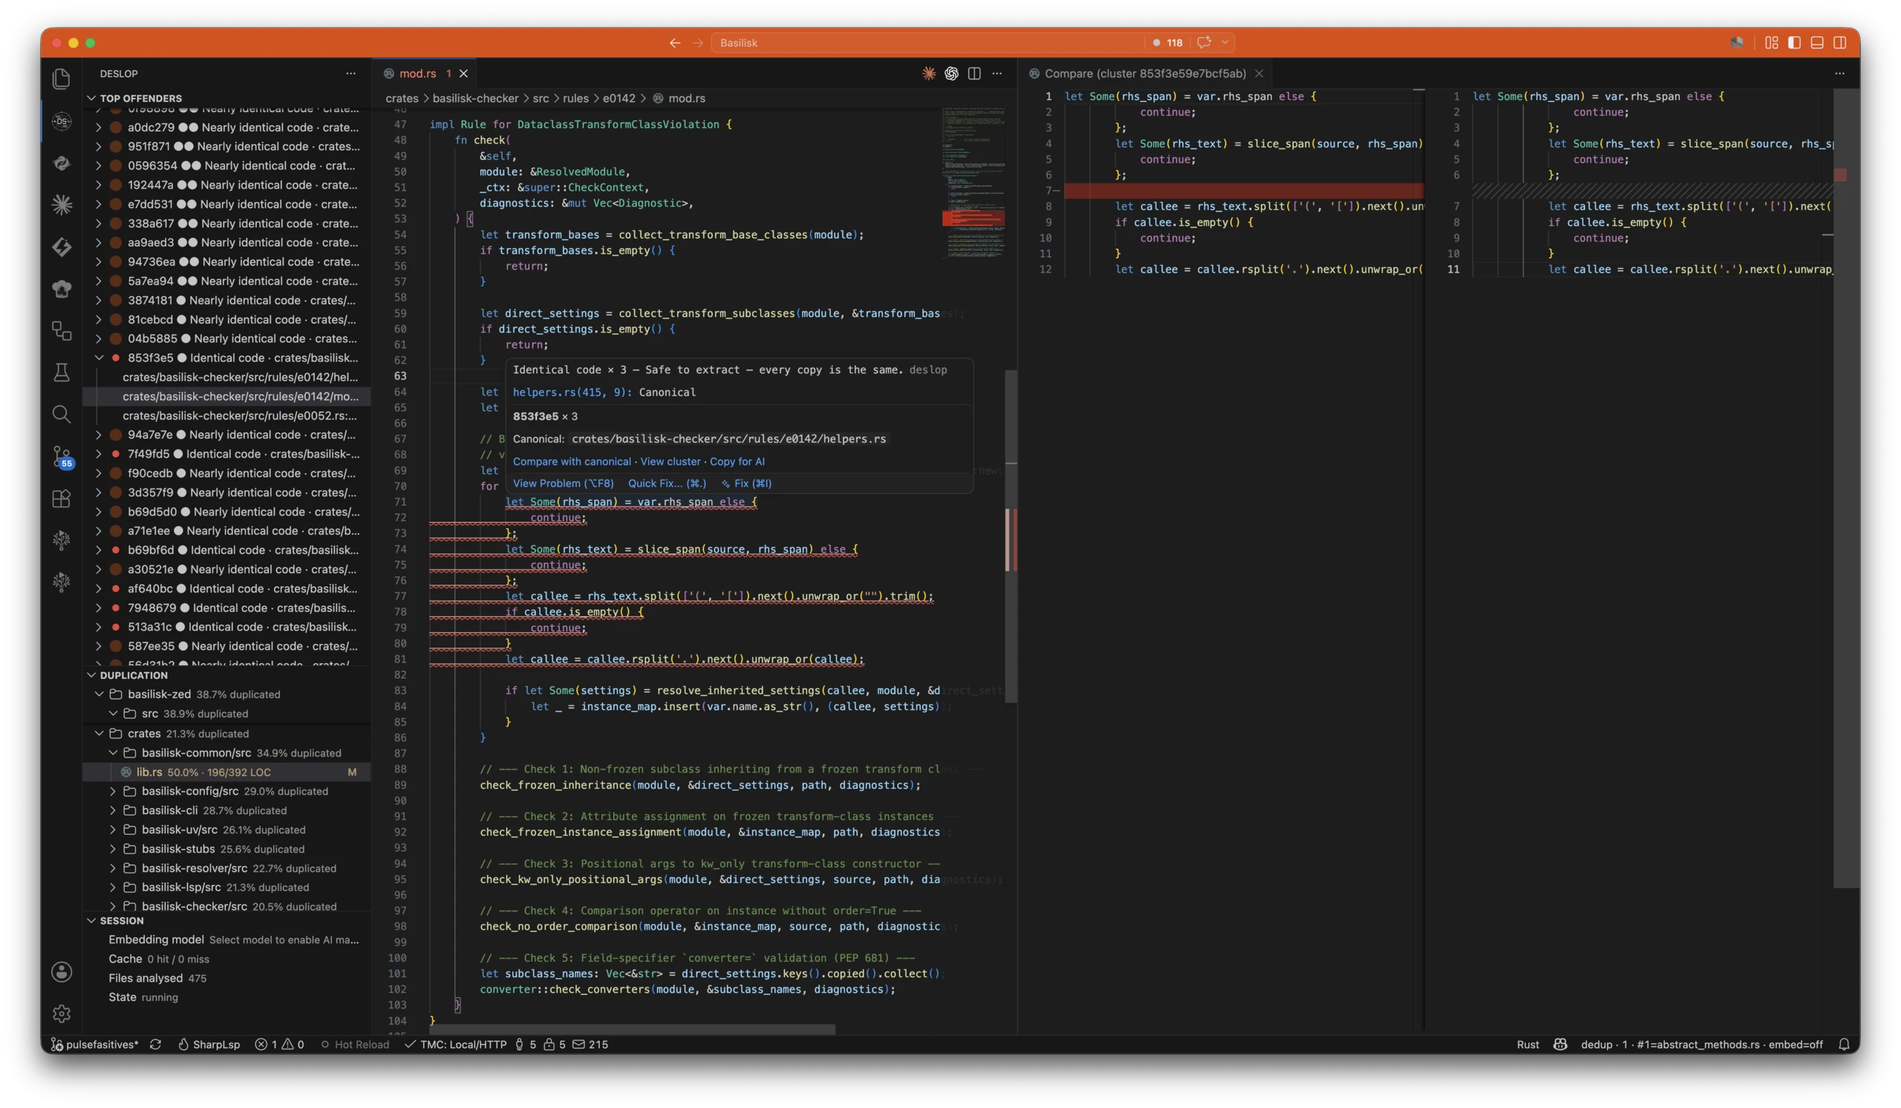
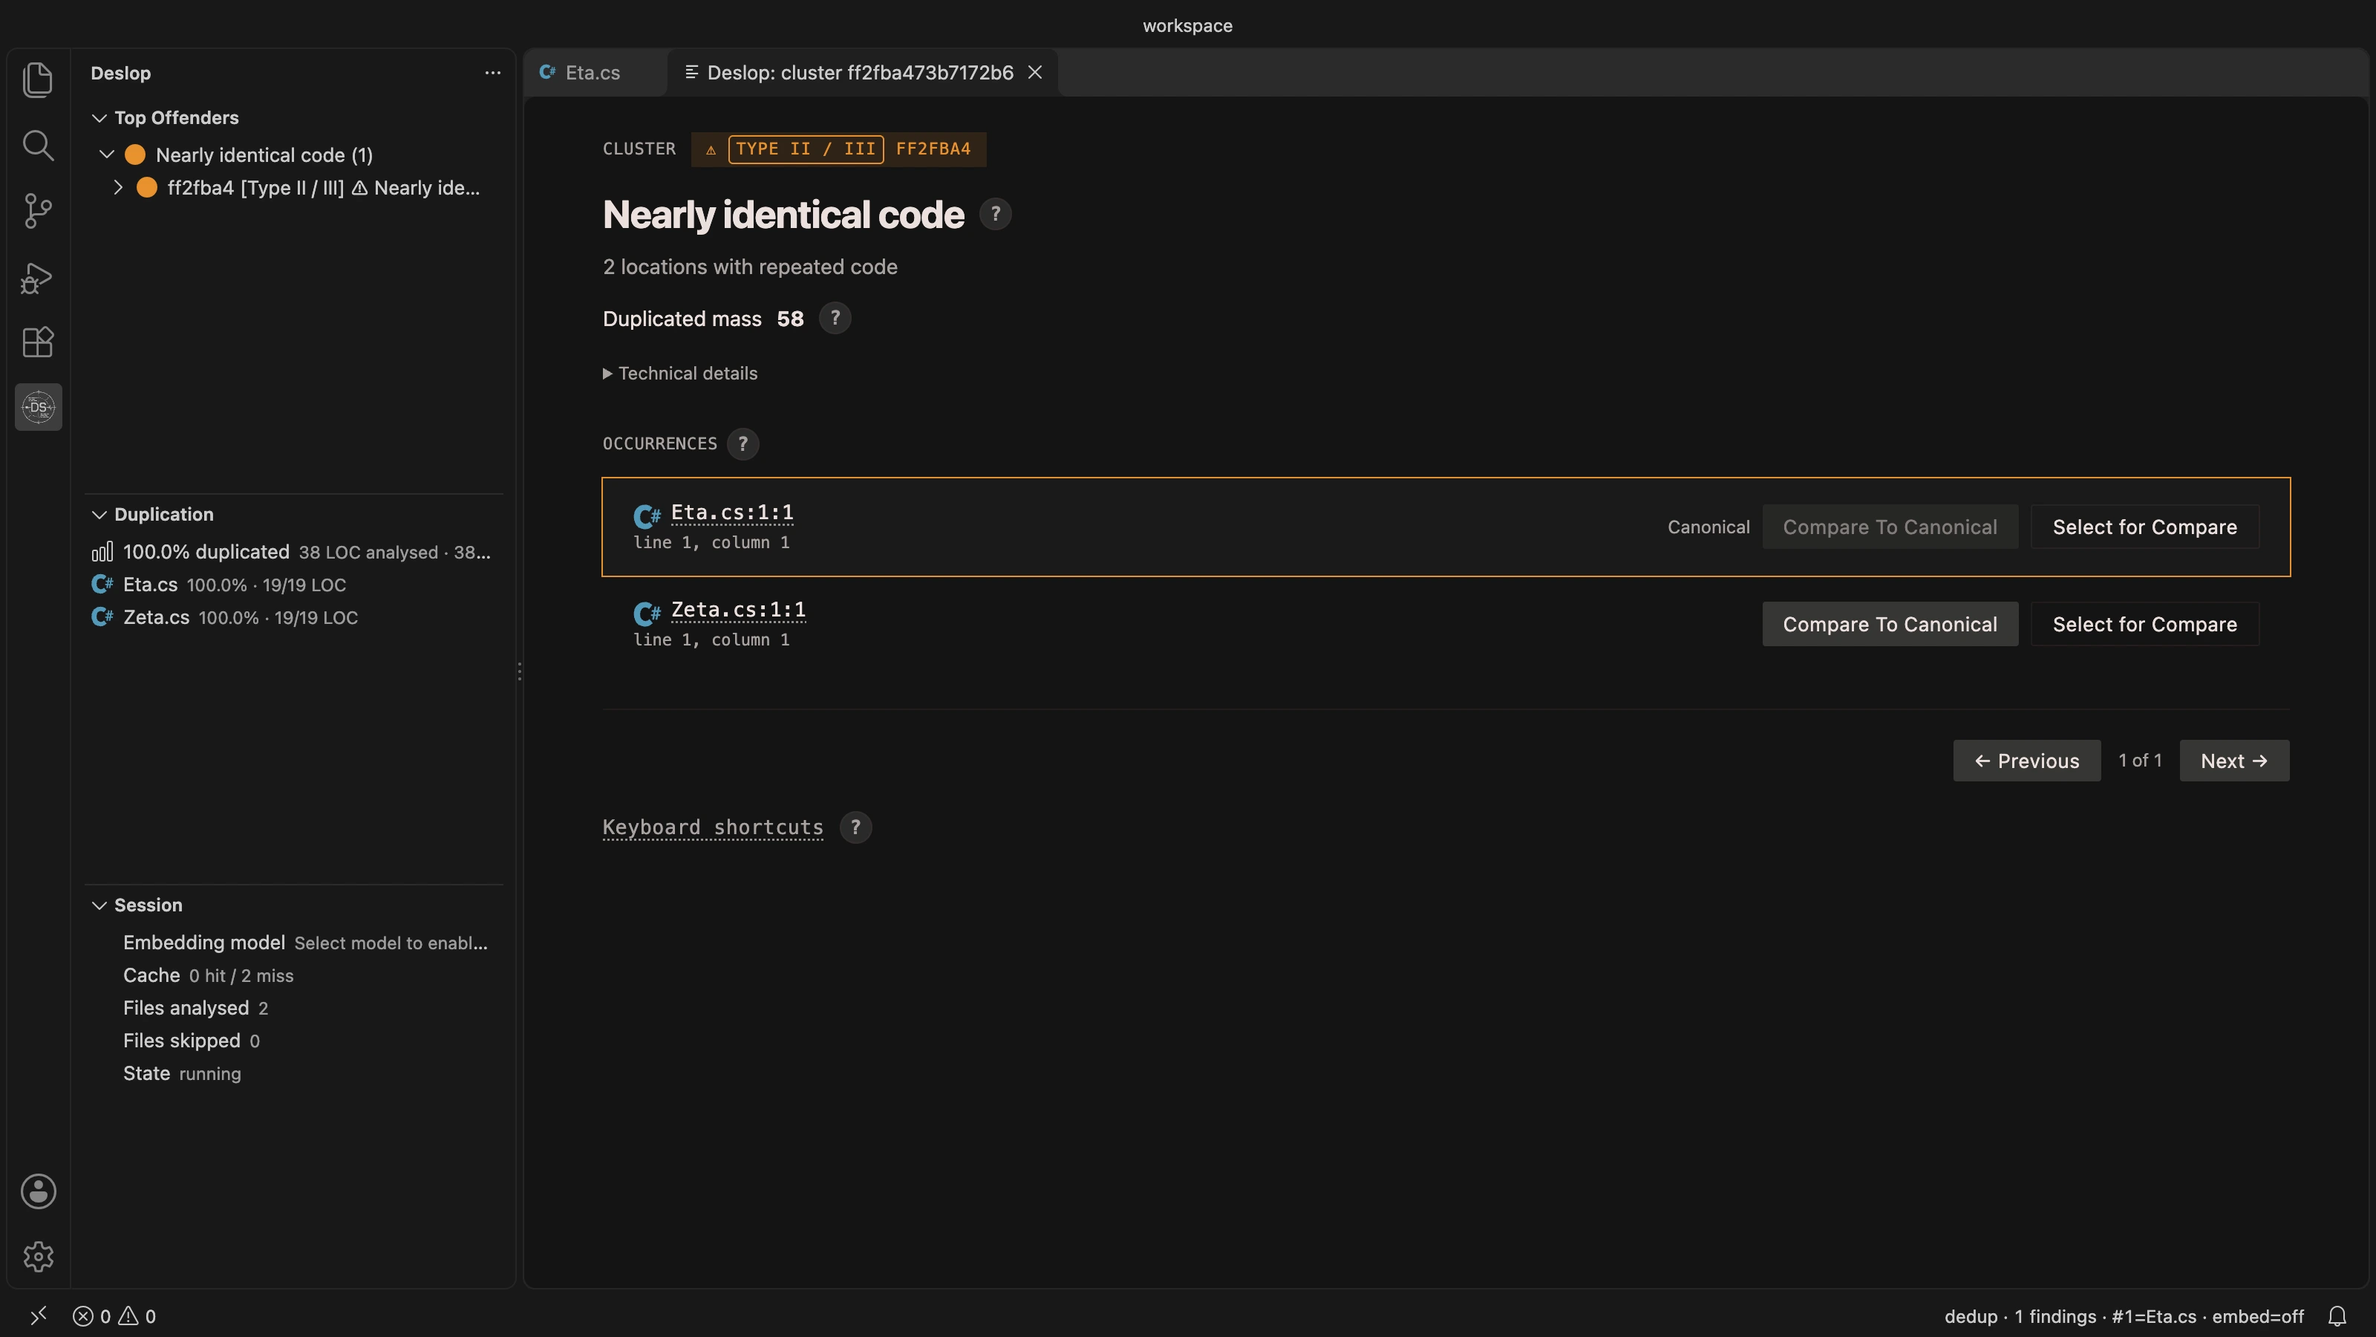
Publish narrated product demo, Marketplace GIF and distinct blog artwork

diff --git a/site/tests/website-audit.spec.js b/site/tests/website-audit.spec.js
@@ -1,4 +1,4 @@
-import { readdir } from "node:fs/promises";
+import { readdir, readFile } from "node:fs/promises";
 import { extname } from "node:path";
 import { expect, test } from "@playwright/test";
 import { expectAssetType } from "./helpers/assets.js";
@@ -269,12 +269,45 @@ test("internal page links and fragments resolve", async ({ page }) => {
   }
 });
 
-// [SITE-ASSET-TYPE] Motion is built in the page, so no encoded video or audio file is ever published.
+// [SITE-DEMO-VIDEO] The narrated product demo is the only published encoded media.
 const SITE_SOURCE = new URL("../src/", import.meta.url);
 const ENCODED_MEDIA = new Set([".aac", ".avi", ".flac", ".m4a", ".m4v", ".mkv", ".mov", ".mp3", ".mp4", ".ogg", ".wav", ".webm"]);
-const NO_FILES = [];
+const DEMO_MEDIA = ["assets/video/deslop-demo.mp4"];
 
-test("the site source publishes no encoded video or audio", async () => {
+test("the site publishes only the requested product demo", async () => {
   const files = await readdir(SITE_SOURCE, { recursive: true });
-  expect(files.filter((file) => ENCODED_MEDIA.has(extname(file).toLowerCase()))).toEqual(NO_FILES);
+  expect(files.filter((file) => ENCODED_MEDIA.has(extname(file).toLowerCase()))).toEqual(DEMO_MEDIA);
+});
+
+// [SITE-DEMO-VIDEO] Native controls keep narration opt-in and captions accessible.
+test("homepage demo plays on demand with captions on desktop and mobile", async ({ page }) => {
+  for (const route of ["/", "/zh/"]) {
+    for (const width of [1440, 390]) {
+      await page.setViewportSize({ width, height: 900 });
+      await page.goto(route);
+      await page.locator('.hero__cta a[href="#demo"]').click();
+      const video = page.locator('.showcase video');
+      await expect(video).toBeVisible();
+      await expect(video).toHaveAttribute('controls', '');
+      await expect(video).toHaveAttribute('preload', 'none');
+      await expect(video).not.toHaveAttribute('autoplay');
+      await expect(video.locator('track')).toHaveAttribute('srclang', 'en');
+      await video.evaluate(element => { element.muted = true; return element.play(); });
+      await expect.poll(() => video.evaluate(element => element.currentTime)).toBeGreaterThan(0);
+      expect(await video.evaluate(element => element.videoWidth)).toBe(1600);
+      expect(await video.evaluate(element => element.videoHeight)).toBe(1000);
+      await video.evaluate(element => element.pause());
+      expect(await page.evaluate(() => document.documentElement.scrollWidth <= innerWidth)).toBe(true);
+    }
+  }
+});
+
+test("English articles have distinct header artwork", async ({ page }) => {
+  await page.goto('/blog/');
+  const sources = await page.locator('main img').evaluateAll(images => images.map(image => image.getAttribute('src')).filter(src => src?.includes('/blog/')));
+  expect(sources.length).toBeGreaterThan(5);
+  expect(new Set(sources).size).toBe(sources.length);
+  const contents = await Promise.all(sources.map(src => readFile(new URL(`../src${src}`, import.meta.url))));
+  const unique = new Set(contents.map(bytes => bytes.toString('base64')));
+  expect(unique.size, 'different filenames must not hide duplicate images').toBe(sources.length);
 });

diff --git a/site/src/assets/css/home.css b/site/src/assets/css/home.css
@@ -135,8 +135,9 @@
 }
 .btn-primary:hover { color: var(--on-primary-container); }
 
-/* ─────────── Product showcase (extension screenshot + panel legend) ─────────── */
+/* ─────────── Product demo and workflow ─────────── */
 .showcase {
+  scroll-margin-top: calc(var(--header-height) + var(--space-6));
   padding: var(--space-8) var(--space-6) var(--space-24);
   max-width: var(--max-width);
   margin-inline: auto;
@@ -166,7 +167,7 @@
   overflow: hidden;
   box-shadow: 0 20px 40px rgba(14, 14, 14, 0.6);
 }
-.showcase__figure img { display: block; width: 100%; height: auto; }
+.showcase__figure img, .showcase__figure video { display: block; width: 100%; height: auto; }
 .showcase__legend {
   display: grid;
   grid-template-columns: 1fr;

diff --git a/clients/vscode/README.md b/clients/vscode/README.md
@@ -4,15 +4,15 @@
 
 Clone detectors such as PMD CPD, jscpd, SonarLint, and the JetBrains inspections report duplication on CI, on save, or in a panel you open on purpose. Deslop surfaces duplicates **inline, next to your cursor, as you type**, and exposes the same live analysis to the agent over MCP so it can check *before* it copy-pastes.
 
-![The Deslop VS Code extension on a live workspace: a worst-first Top Offenders tree and a per-directory Duplication breakdown in the sidebar, a live clone warning in the editor naming the canonical copy with Compare / View cluster / Copy for AI actions, and a side-by-side Compare diff against the canonical occurrence.](https://deslop.live/assets/img/screenshot.webp)
+[![Deslop demo: inspect a duplicate cluster and compare both copies in VS Code.](https://deslop.live/assets/img/deslop-demo.gif)](https://deslop.live/#demo)
 
-**One live report, three surfaces.** The screenshot above shows the extension rendering the running analysis inline:
+[Watch the narrated demo with captions](https://deslop.live/#demo).
 
-- **Sidebar (left)** — **Top Offenders** ranks every clone cluster worst-first (id, severity, plain-English bucket, expandable to occurrences); **Duplication** breaks the repo down folder-by-folder with a duplicated-percentage on every node; **Session** shows the live server and the embedding-model picker.
-- **Editor (centre)** — the LSP underlines the duplicate as you type, names the **canonical** copy used as the anchor, and offers **Compare with canonical**, **View cluster**, and **Copy for AI** right on the finding.
-- **Compare diff (right)** — VS Code's native side-by-side editor lines this occurrence up against the canonical one so you can confirm before extracting.
+![Deslop showing a real duplicate-code cluster, its two locations and canonical comparison actions.](https://deslop.live/assets/img/screenshot.webp)
 
-Every panel refreshes as you type, and the same live report backs the MCP tools your agent calls. Full panel-by-panel walkthrough: [VS Code Cluster Panel](https://deslop.live/docs/vscode-cluster-panel/).
+**Find, inspect, compare.** Top Offenders lists the findings beside your code. Open a cluster to see its locations, then compare an occurrence with its canonical copy in VS Code's native diff editor before refactoring. The demonstration uses a small two-file C# fixture analysed by the packaged extension.
+
+Every panel reads the same live analysis. Full walkthrough: [VS Code Cluster Panel](https://deslop.live/docs/vscode-cluster-panel/).
 
 ## Features
 

diff --git a/site/src/docs/vscode-cluster-panel.md b/site/src/docs/vscode-cluster-panel.md
@@ -22,6 +22,11 @@ The panel shows a group of code occurrences and lets you inspect the actual copi
 
 Canonical means the reference used for navigation, not the best implementation. The diff title identifies both ranges and the engine's verdict for that pair, including exact-byte or indentation-only matches. Two ranges can be in the same file.
 
+<figure>
+  <a href="/assets/img/deslop-compare.webp"><img src="/assets/img/deslop-compare.webp" alt="VS Code comparing the two C# copies side by side, with renamed namespaces and classes highlighted." width="3200" height="1800" loading="lazy" decoding="async"></a>
+  <figcaption>The native diff editor compares the canonical copy with another occurrence in the demo workspace.</figcaption>
+</figure>
+
 ## Read the finding
 
 The **clone kind** distinguishes Identical code, Nearly identical code, Similar code, optional Same behavior, different code, and informational Same shape, different content. [How It Works](/docs/how-it-works/#read-the-categories) explains the Type I–IV mapping.
@@ -37,6 +42,11 @@ Structural, token, content and embedding measurements describe a pair. They appe
 **Top Offenders** groups findings by **Clone Category**, **Folder**, **Language**, **File** or **No Grouping**. Clones stay in descending mass order. One grouping menu replaces separate language and sorting controls.
 
 **Duplication** shows workspace, folder and file percentages from the same engine calculation used in reports. **Session** shows analysis state and embedding settings. The views refresh with the live analysis.
+
+<figure>
+  <a href="/assets/img/deslop-source.webp"><img src="/assets/img/deslop-source.webp" alt="Deslop findings and duplication breakdown beside the C# source file in VS Code." width="3200" height="1800" loading="lazy" decoding="async"></a>
+  <figcaption>The same two-file fixture, with live findings beside its source.</figcaption>
+</figure>
 
 Help buttons open formatted explanations on hover or keyboard focus. **Escape** dismisses help; technical details stay collapsed until needed.
 

diff --git a/site/src/docs/index.md b/site/src/docs/index.md
@@ -28,12 +28,8 @@ Then open a supported source file (`.cs`, `.rs`, `.py`, `.dart`, `.js`, `.mjs`, 
 The extension bundles native binaries for `darwin-arm64`, `darwin-x64`, `linux-x64`, `linux-arm64`, and `win32-x64` — the right one is selected for you automatically.
 
 <figure>
-  <a href="/assets/img/screenshot.webp">
-    <img src="/assets/img/screenshot.webp"
-         alt="The Deslop VS Code extension on a live workspace: a worst-first Top Offenders tree and a per-folder Duplication breakdown in the sidebar, a live clone warning at the cursor, and a Compare diff against the canonical occurrence."
-         width="2560" height="1492" loading="lazy" decoding="async">
-  </a>
-  <figcaption>The extension on a live workspace — worst-first clusters and a per-folder duplication breakdown in the sidebar, a live clone warning at the cursor, and a Compare diff against the canonical copy. <a href="/docs/vscode-cluster-panel/">Full panel-by-panel walkthrough →</a></figcaption>
+  <a href="/assets/img/screenshot.webp"><img src="/assets/img/screenshot.webp" alt="Deslop analysing a two-file C# demo: a duplicate cluster with both locations and canonical comparison actions." width="3200" height="1800" loading="lazy" decoding="async"></a>
+  <figcaption>A real two-file demo analysed by the packaged extension. Open a finding, inspect its locations, then compare the copies.</figcaption>
 </figure>
 
 > **Offline or air-gapped?** Grab the `.vsix` from the [Releases page](/releases/) or the [latest GitHub release](https://github.com/Nimblesite/Deslop/releases/latest), then install it via **Extensions panel → `…` menu → Install from VSIX…**.

diff --git a/site/src/zh/docs/index.md b/site/src/zh/docs/index.md
@@ -29,12 +29,8 @@ lang: zh
 该扩展捆绑了面向 `darwin-arm64`、`darwin-x64`、`linux-x64`、`linux-arm64` 和 `win32-x64` 的原生二进制文件 —— 系统会自动为你选择正确的那一个。
 
 <figure>
-  <a href="/assets/img/screenshot.webp">
-    <img src="/assets/img/screenshot.webp"
-         alt="Deslop VS Code 扩展正在分析实时工作区：侧边栏中以最严重优先排序的 Top Offenders 树与按目录划分的 Duplication 占比，编辑器中光标处的实时克隆警告，以及与规范出现位置的 Compare 差异对比。"
-         width="2560" height="1492" loading="lazy" decoding="async">
-  </a>
-  <figcaption>实时工作区中的扩展——侧边栏里以最严重优先排序的克隆簇与按目录划分的重复占比、光标处的实时克隆警告，以及与规范副本的 Compare 差异对比。<a href="/zh/docs/vscode-cluster-panel/">逐面板完整解读 →</a></figcaption>
+  <a href="/assets/img/screenshot.webp"><img src="/assets/img/screenshot.webp" alt="Deslop 分析双文件 C# 示例：重复代码簇、两个位置和规范副本比较操作。" width="3200" height="1800" loading="lazy" decoding="async"></a>
+  <figcaption>打包扩展分析的真实双文件示例。打开结果、查看位置，然后比较副本。</figcaption>
 </figure>
 
 > **离线或隔离网络环境？** 从[发布页](/zh/releases/)或[最新的 GitHub release](https://github.com/Nimblesite/Deslop/releases/latest) 获取 `.vsix`，并通过**扩展面板 → `…` 菜单 → 从 VSIX 安装…**进行安装。

diff --git a/docs/designs/language-blog-headers.md b/docs/designs/language-blog-headers.md
@@ -17,3 +17,7 @@ A tactile industrial still life for removing duplicate C code: two identical mat
 ## Accuracy article: distinct artwork
 
 The 0.35.0 accuracy article uses `accuracy-complete-shapes` (1600x840 and 800x420 WebP, 1200x630 JPEG), generated with the built-in imagegen tool on 2026-11-08. The earlier transparency article keeps its drafting-table illustration. Prompt: tactile macro studio view of two matching laser-cut graphite contours beside a differently shaped offcut, charcoal surface, silver edges, restrained crimson measurement marker, neutral studio lighting; no paper drafting diagram, cyan, Osprey branding, text, or logos. Every English article must have a distinct hero image; translations may share their source article artwork.
+
+## Ranking article
+
+`ranking-mass` uses a distinct built-in imagegen illustration (2026-11-08): four stacks of graphite tiles ordered tallest to shortest, crimson top tile on the largest stack, silver highlights, charcoal surface, soft neutral studio light. No words, numbers, logos, blue, cyan, or Osprey branding. Exports use the same 1600x840 / 800x420 / 1200x630 sizes. English and Chinese translations share each article's matching artwork.

diff --git a/docs/designs/designsystem.md b/docs/designs/designsystem.md
@@ -100,3 +100,7 @@ Documentation uses a 17rem sidebar with quiet group headings, plus/minus indicat
 Use the shared 120–280ms motion tokens for color changes, section reveals and drawers. Buttons and article cards lift by 2px on hover. Reduced-motion preferences suppress transitions and animation. Resting navigation text uses opaque neutral tokens in both themes.
 
 Verified by `site/tests/navigation.spec.js` and `site/tests/homepage-layout.spec.js`. Styles live in `site/src/assets/css/base.css` and `prose.css`.
+
+## Product demonstration [SITE-DEMO-VIDEO]
+
+The homepage links directly from the hero to a narrated recording of the actual packaged extension. Use the shared player on both language variants, native controls, an explicit poster, English captions, `playsinline` and `preload="none"`; playback starts on request. The HTML hero animation remains lightweight and independent. Screenshots must show actual measured demo data and describe the screen they depict. MP4 and GIF assets use Git LFS, and site CI plus Pages must fetch LFS objects before building. The Marketplace README leads with a short silent GIF and links to the narrated version.

diff --git a/site/src/zh/blog/duplicate-code-detection-accuracy.md b/site/src/zh/blog/duplicate-code-detection-accuracy.md
@@ -12,11 +12,11 @@ tags:
 category: engineering
 description: "Deslop 0.35.0 聚焦误报、漏报与不完整的克隆范围，并提供更清晰的比较和重复度指标。"
 excerpt: "找到配对只是准确性的一部分。检测器还需要报告完整副本，排除无关的相似外形，并统计正确的源代码行。"
-heroImage: "/assets/img/blog/towards-100-percent-accuracy-header.webp"
+heroImage: "/assets/img/blog/accuracy-complete-shapes.webp"
 heroImageWidth: "1600"
-heroImageHeight: "900"
-heroImageAlt: "绘图桌上的放大镜与精密测量工具。"
-ogImage: "/assets/img/blog/towards-100-percent-accuracy-og.png"
+heroImageHeight: "840"
+heroImageAlt: "两块形状匹配的石墨组件与一块不同形状的组件，展示完整结构比较。"
+ogImage: "/assets/img/blog/accuracy-complete-shapes-og.jpg"
 ogImageWidth: "1200"
 ogImageHeight: "630"
 ---

diff --git a/site/src/blog/ranking-formula.md b/site/src/blog/ranking-formula.md
@@ -6,11 +6,11 @@ author: Christian Findlay
 tags: posts
 description: Deslop ranks duplicate code by syntax-tree size and additional visible copies. Shape-only findings have no duplicated mass.
 excerpt: The current ranking uses duplicated mass, without the old byte-span multiplier.
-heroImage: /assets/img/blog/towards-100-percent-accuracy-header.webp
+heroImage: /assets/img/blog/ranking-mass.webp
 heroImageWidth: '1600'
-heroImageHeight: '900'
-heroImageAlt: Precision tools on a drafting table.
-ogImage: /assets/img/blog/towards-100-percent-accuracy-og.png
+heroImageHeight: '840'
+heroImageAlt: Four stacks of graphite tiles ordered largest first, with a crimson top tile on the tallest stack.
+ogImage: /assets/img/blog/ranking-mass-og.jpg
 ogImageWidth: '1200'
 ogImageHeight: '630'
 updated: '2026-09-27'

diff --git a/site/src/zh/blog/ranking-formula.md b/site/src/zh/blog/ranking-formula.md
@@ -6,11 +6,11 @@ author: Christian Findlay
 tags: posts
 description: Deslop 按语法树大小与额外可见副本数排列重复代码。仅形状相同的结果没有重复质量。
 excerpt: 当前排名使用重复质量，不再乘以旧的字节跨度因子。
-heroImage: /assets/img/blog/towards-100-percent-accuracy-header.webp
+heroImage: /assets/img/blog/ranking-mass.webp
 heroImageWidth: '1600'
-heroImageHeight: '900'
-heroImageAlt: 绘图桌上的精密测量工具。
-ogImage: /assets/img/blog/towards-100-percent-accuracy-og.png
+heroImageHeight: '840'
+heroImageAlt: Four stacks of graphite tiles ordered largest first, with a crimson top tile on the tallest stack.
+ogImage: /assets/img/blog/ranking-mass-og.jpg
 ogImageWidth: '1200'
 ogImageHeight: '630'
 lang: zh

diff --git a/README.md b/README.md
@@ -9,7 +9,7 @@ copy-pastes.
 [Documentation](https://deslop.live/docs/) ·
 [Releases](https://deslop.live/releases/)
 
-[![Deslop showing ranked duplicate-code clusters, an inline warning, and a side-by-side comparison in VS Code.](site/src/assets/img/screenshot.webp)](https://deslop.live/docs/vscode-cluster-panel/)
+[![Deslop showing a duplicate cluster, its two locations and canonical comparison actions.](site/src/assets/img/screenshot.webp)](https://deslop.live/docs/vscode-cluster-panel/)
 
 ## Install in your IDE
 
